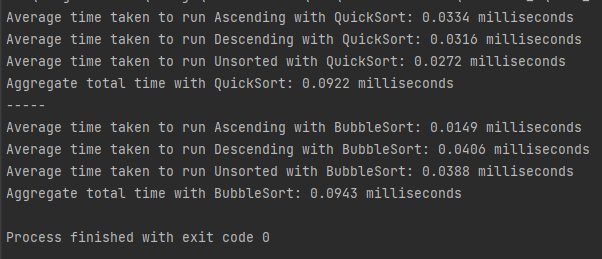
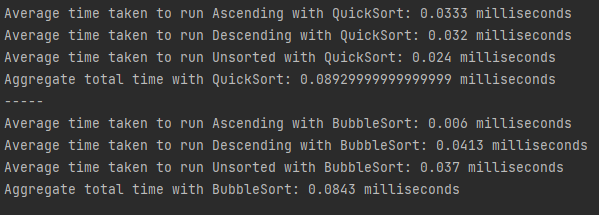
Algorithms task done

diff --git a/homework_2/task_3/sortingAlgorithms.js b/homework_2/task_3/sortingAlgorithms.js
@@ -18,7 +18,8 @@ function quicksort(array, start = 0, end = array.length - 1) {
 function partition(array, start, end) {
 
     // Choose a random index as the pivot value
-    let pivotIndex = Math.floor(Math.random() * (end - start + 1) + start);
+    // let pivotIndex = Math.floor(Math.random() * (end - start + 1) + start);
+    let pivotIndex = Math.floor(Math.random() * end);
     let pivotValue = array[pivotIndex];
 
     // Swap the pivot value with the end element
@@ -29,10 +30,13 @@ function partition(array, start, end) {
 
     // Iterate through the array from the start to the end
     for (let i = start; i < end; i++) {
+
         // If the current element is less than or equal to the pivot value
         if (array[i] <= pivotValue) {
+
             // Swap the current element with the partition index
             [array[i], array[partitionIndex]] = [array[partitionIndex], array[i]];
+
             // Increment the partition index;
             partitionIndex++;
         }
@@ -54,12 +58,11 @@ function bubbleSort(array) {
         // compare each pair of adjacent elements
         for (let i = 0; i < length; i++) {
 
-            // if the current element is greater than the next element, swap them
+            // if the current element is greater than the next element
             if (array[i] > array[i + 1]) {
 
-                let temp = array[i];
-                array[i] = array[i + 1];
-                array[i + 1] = temp;
+                // Swap them
+                [array[i], array[i + 1]] = [array[i + 1], array[i]]
             }
         }
     }

diff --git a/homework_2/task_3/algorithmsTestCases.js b/homework_2/task_3/algorithmsTestCases.js
@@ -1,7 +1,7 @@
 const helpers = require('./helpers');
 const sortingAlgorithms = require('./sortingAlgorithms');
 
-const lengthOfArray = 150;
+const lengthOfArray = 80;
 
 function getAlgorithmMeasurement(algorithmFunction, numberOfIterations) {
     let sortedAscendingAvgResults = 0;

diff --git a/homework_2/README.md b/homework_2/README.md
@@ -43,9 +43,9 @@ When you reach result, run it few times to check different random on arrays.
 After you found result you can check few more length to compare how fast time growth on BubbleSort comparing to QuickSort.
 
 ## Solution ##
-After performing 100 iterations with each algorithm under the required conditions, the result is that at around the 150 element mark BubbleSort starts performing worse than QuickSort.
+After performing 100 iterations with each algorithm under the required conditions, the result is that at around the **80 element mark** BubbleSort starts performing worse than QuickSort.
 The process I chose in determining that is to compare the results gathered from aggregating all the averages taken from the 100 iterations from each array type (sorted ascending, descending and unsorted).
-That results in a single number symbolizing the total average time taken and makes it easy to compare.
+That results in a single number symbolizing the **total average time taken** and makes it easy to compare.
 
 ![img.png](task_3/algorithm_results.png)
 
